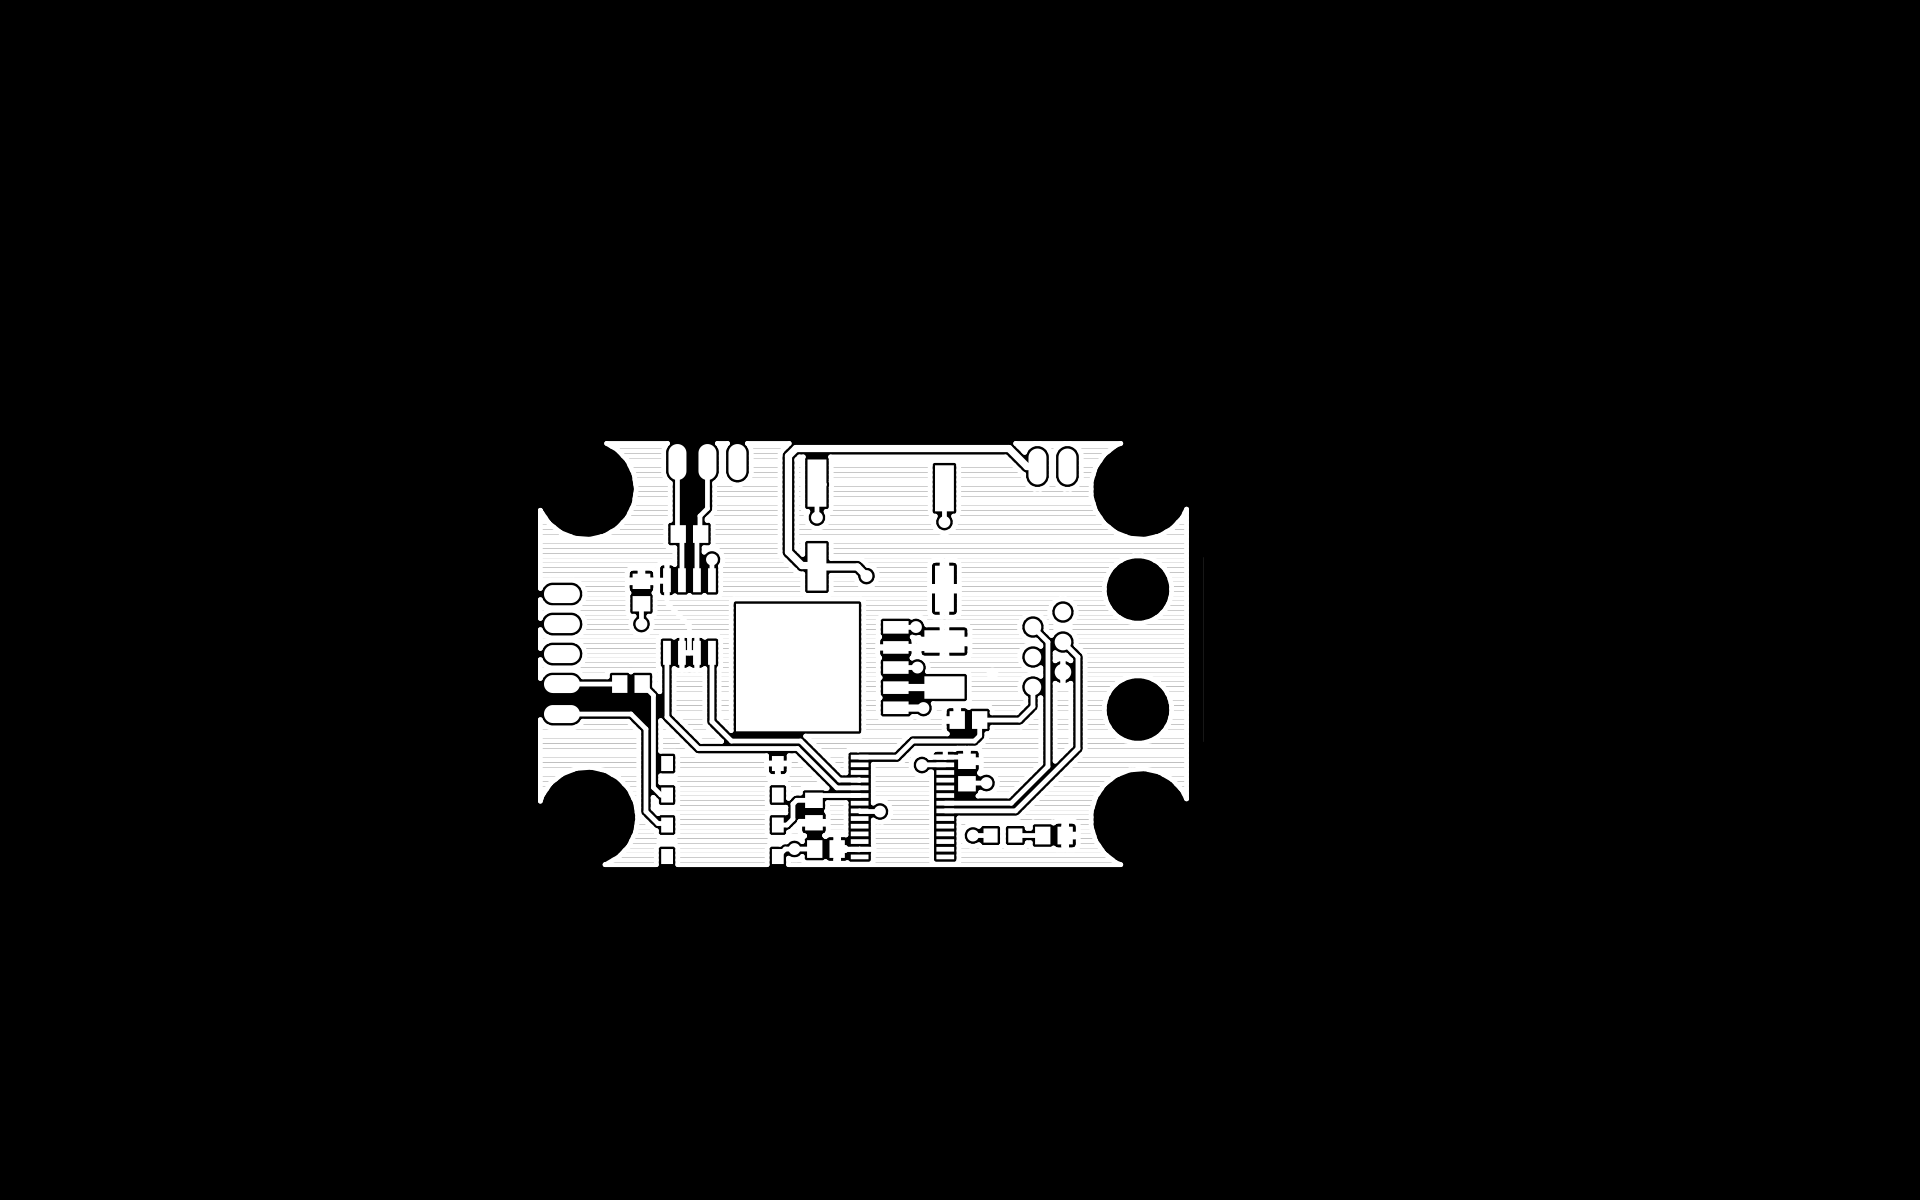
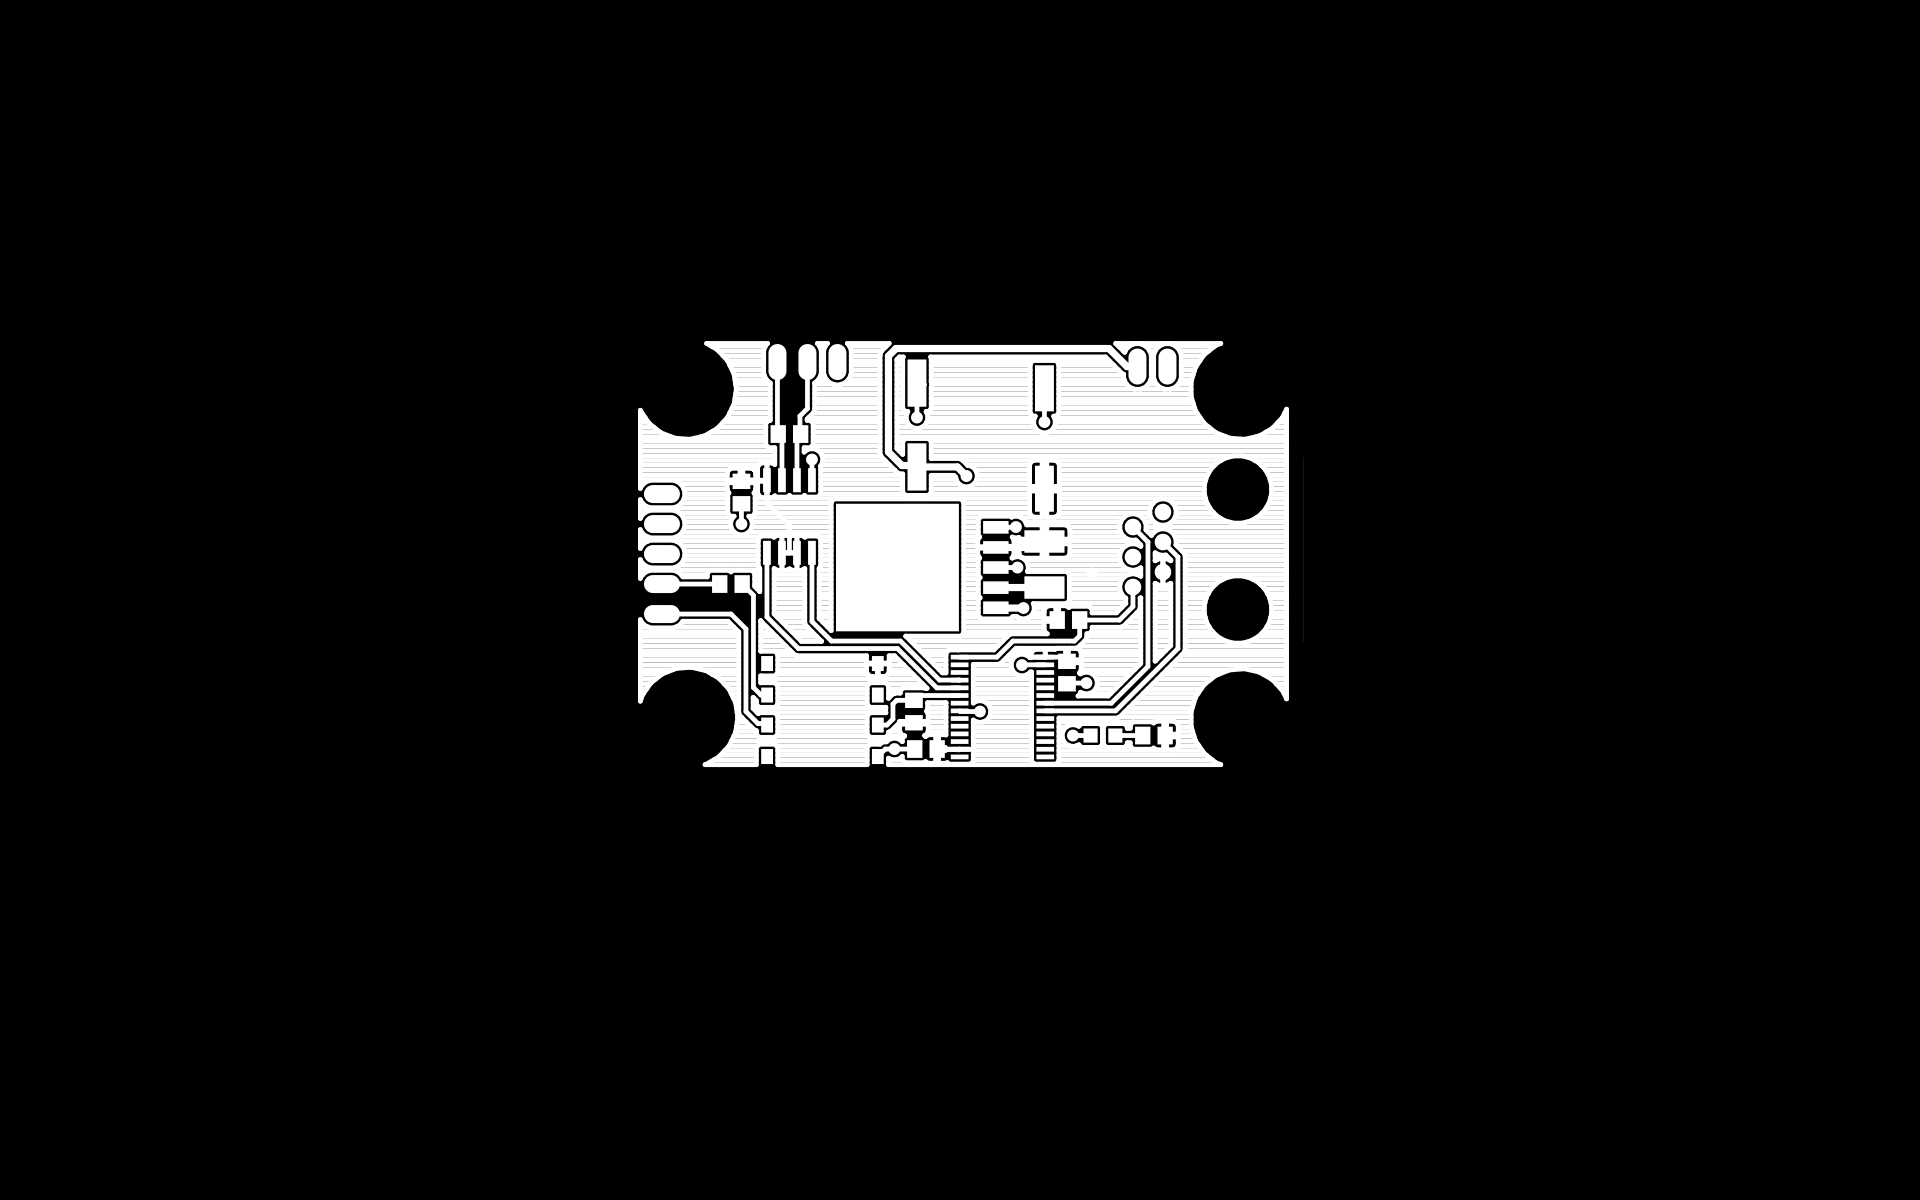
separated bounds calculation, display to lcd

Changed region(s): [[0.2812, 0.2775, 0.6875, 0.74]]

diff --git a/main_display.py b/main_display.py
@@ -29,21 +29,9 @@ import os
 from gerber import load_layer
 from gerber.render import RenderSettings, theme
 from gerber.render.cairo_backend import GerberCairoContext
-
-import numpy as np
-import cv2
-from screeninfo import get_monitors
-
+from display import display_on_lcd, show_on_LCD
 
 GERBER_FOLDER = os.path.abspath(os.path.join(os.path.dirname(__file__), 'examples/gerbers'))
-
-screen_id = 2
-
-screen = get_monitors()[0]
-print(screen)
-width_screen, height_screen = screen.width, screen.height
-
-
 
 # Open the gerber files
 copper = load_layer(os.path.join(GERBER_FOLDER, 'copper.GTL'))
@@ -54,65 +42,17 @@ copper = load_layer(os.path.join(GERBER_FOLDER, 'copper.GTL'))
 # Create a new drawing context
 ctx = GerberCairoContext(scale=300)
 
-width_screen_inch = width_screen/300
-height_screen_inch = height_screen/300
+display_bounds = display_on_lcd.calculate_bounds(copper)
 
-shift_x, shift_y = 100/300, 100/300
-
-height_pic = copper.bounds[1][1]
-width_pic = copper.bounds[0][1]
-
-print('widthpic = {}'.format(width_pic))
-print('heightpic = {}'.format(height_pic))
-
-width_delta = (width_screen_inch-width_pic)/2
-height_delta = (height_screen_inch-height_pic)/2
-
-display_bounds = [[0,0],[0,0]]
-
-display_bounds[0][0] = (-width_delta + shift_x)
-display_bounds[1][0] = (-height_delta + shift_y)
-display_bounds[0][1] = (width_pic+width_delta + shift_x)
-display_bounds[1][1] = (height_pic+height_delta + shift_y)
-
-print('dispaly bounds = {}'.format(display_bounds))
 
 white_settings = RenderSettings(color=theme.COLORS['white'], alpha=1)
 black_settings = RenderSettings(color=theme.COLORS['black'], alpha=1)
+
 # Draw the copper layer. render_layer() uses the default color scheme for the
 # layer, based on the layer type. Copper layers are rendered as
 ctx.render_layer(copper, settings=white_settings, bgsettings=black_settings, bounds=display_bounds)
-#ctx.render_layer(copper, settings=white_settings, bgsettings=black_settings)
-
-# Draw the soldermask layer
-#ctx.render_layer(mask)
-
-
-# The default style can be overridden by passing a RenderSettings instance to
-# render_layer().
-# First, create a settings object:
-
-
-# Draw the silkscreen layer, and specify the rendering settings to use
-#ctx.render_layer(silk, settings=our_settings)
-
-# Draw the drill layer
-#ctx.render_layer(drill)
-
 
 # Write output to png file
 ctx.dump(os.path.join(os.path.dirname(__file__), 'to_display.png'))
 
-exposure_layer = cv2.imread('to_display.png')
-
-image = np.ones((height_screen, width_screen, 3), dtype=np.float32)
-image[:height_screen, :width_screen] = 0  # black at top-left corner
-
-window_name = 'PCB_Printer'
-cv2.destroyAllWindows()
-cv2.namedWindow(window_name, cv2.WND_PROP_FULLSCREEN)
-cv2.moveWindow(window_name, screen.x - 1, screen.y - 1)
-cv2.setWindowProperty(window_name, cv2.WND_PROP_FULLSCREEN, cv2.WINDOW_FULLSCREEN)
-cv2.imshow(window_name, exposure_layer)
-cv2.waitKey(0)
-cv2.destroyAllWindows()
+show_on_LCD()

diff --git a/display/display_on_lcd.py b/display/display_on_lcd.py
@@ -1,0 +1,48 @@
+import cv2
+from screeninfo import get_monitors
+
+screen = get_monitors()[0]
+
+def calculate_bounds(layer):
+
+    print(screen)
+    width_screen, height_screen = screen.width, screen.height
+
+    width_screen_inch = width_screen/300
+    height_screen_inch = height_screen/300
+
+
+    shift_x, shift_y = 0,0
+
+    height_pic = layer.bounds[1][1]
+    width_pic = layer.bounds[0][1]
+
+    #print('widthpic = {}'.format(width_pic))
+    #print('heightpic = {}'.format(height_pic))
+
+    width_delta = (width_screen_inch-width_pic)/2
+    height_delta = (height_screen_inch-height_pic)/2
+
+    display_bounds = [[0,0],[0,0]]
+
+    display_bounds[0][0] = (-width_delta + shift_x)
+    display_bounds[1][0] = (-height_delta + shift_y)
+    display_bounds[0][1] = (width_pic+width_delta + shift_x)
+    display_bounds[1][1] = (height_pic+height_delta + shift_y)
+
+    #print('dispaly bounds = {}'.format(display_bounds))
+
+    return display_bounds
+
+def show_on_LCD():
+
+    exposure_layer = cv2.imread('./to_display.png')
+
+    window_name = 'PCB_Printer'
+    cv2.destroyAllWindows()
+    cv2.namedWindow(window_name, cv2.WND_PROP_FULLSCREEN)
+    cv2.moveWindow(window_name, screen.x - 1, screen.y - 1)
+    cv2.setWindowProperty(window_name, cv2.WND_PROP_FULLSCREEN, cv2.WINDOW_FULLSCREEN)
+    cv2.imshow(window_name, exposure_layer)
+    cv2.waitKey(0)
+    cv2.destroyAllWindows()

diff --git a/display/__init__.py b/display/__init__.py
@@ -1,0 +1,1 @@
+from .display_on_lcd import calculate_bounds, show_on_LCD
